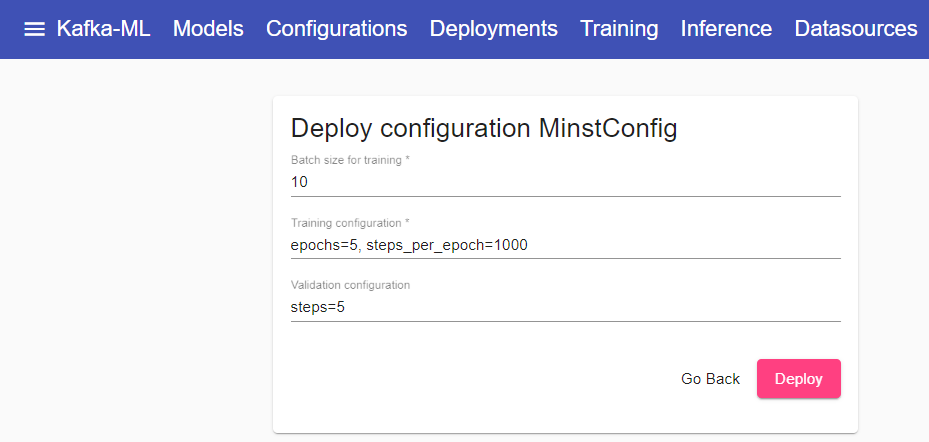
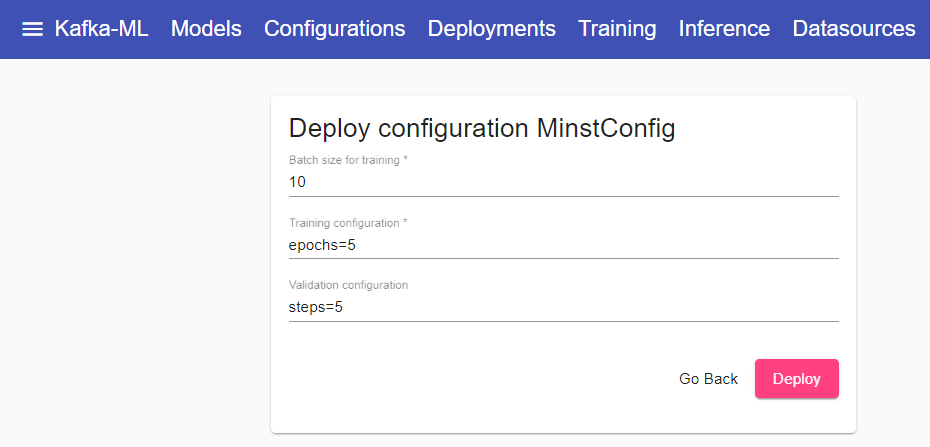
Automation of data types and reshapes for training

diff --git a/frontend/src/app/deployment-view/deployment-view.component.html b/frontend/src/app/deployment-view/deployment-view.component.html
@@ -13,7 +13,7 @@
 
       <mat-form-field class="full-width">
       <mat-label>Training configuration</mat-label>
-        <input matInput required placeholder="epochs=5, steps_per_epoch=1000" pattern="^[A-Za-z0-9-_]*[ ]*=[ ]*[A-Za-z0-9-_]*[ ]*(,[ ]*[A-Za-z0-9-_]*[ ]*=[ ]*[A-Za-z0-9-_]*[ ]*)*$" name="kwargs_fit" [ngModel]="deployment.kwargs_fit">
+        <input matInput required placeholder="epochs=5" pattern="^[A-Za-z0-9-_]*[ ]*=[ ]*[A-Za-z0-9-_]*[ ]*(,[ ]*[A-Za-z0-9-_]*[ ]*=[ ]*[A-Za-z0-9-_]*[ ]*)*$" name="kwargs_fit" [ngModel]="deployment.kwargs_fit">
       </mat-form-field>
 
       <mat-form-field class="full-width">

diff --git a/datasources/raw_sink.py b/datasources/raw_sink.py
@@ -1,4 +1,3 @@
-
 from .sink import KafkaMLSink
 
 class RawSink(KafkaMLSink):
@@ -30,7 +29,7 @@ class RawSink(KafkaMLSink):
     """
 
     def __init__(self, boostrap_servers, topic, deployment_id,
-        data_type, label_type, description='', data_reshape='', label_reshape='', 
+        data_type=None, label_type=None, description='', data_reshape=None, label_reshape=None, 
         validation_rate=0, control_topic='control', group_id='sink'):
         
         input_format='RAW'
@@ -47,3 +46,53 @@ class RawSink(KafkaMLSink):
             'data_reshape' : self.data_reshape,
             'label_reshape' : self.label_reshape,
         }
+        self._configured_format = self.data_type is not None
+
+    def send(self, data, label):
+        """Sends data and label to Apache Kafka"""
+    
+        if not self._configured_format:
+            self.data_reshape = self.__shape_to_string(data)
+            self.label_reshape = self.__shape_to_string(label)
+            self.data_type = self.__type_to_string(data)
+            self.label_type = self.__type_to_string(label)
+            self._configured_format = True
+            self.input_config = {
+                'data_type' : self.data_type,
+                'label_type': self.label_type,
+                'data_reshape' : self.data_reshape,
+                'label_reshape' : self.label_reshape,
+            }    
+        
+        super().send(data.tobytes(), label.tobytes())
+
+    def __shape_to_string(self, out_shape):
+        """Converts shape to string type.
+        Args:
+            out_shape (shape): Output shape to convert
+        Returns:
+            string: String shape of the input
+        """
+
+        if type(out_shape).__name__.startswith('tf.Tensor') or type(out_shape).__name__.startswith('ndarray'):
+            return str(out_shape.shape).replace('(','').replace(',','').replace(')','')
+        elif type(out_shape).__name__.startswith('list'):
+            return str(len(out_shape))
+        else:
+            return '1'
+
+    def __type_to_string(self, out_type):
+        """Converts DType to string type.
+        Args:
+            out_type (DType): Output type to convert
+        Returns:
+            string: String DType of the input
+        """
+        
+        while type(out_type).__name__.startswith('tf.Tensor') or type(out_type).__name__.startswith('ndarray'):
+           out_type = out_type[0]
+
+        if type(out_type).__name__.startswith('tf'):
+           out_type = out_type.numpy().item()
+
+        return type(out_type).__name__

diff --git a/model_inference/utils.py b/model_inference/utils.py
@@ -42,40 +42,46 @@ def load_model(model_path):
   return model
 
 def string_to_tensorflow_type(out_type):
-    """Converts a string with the same name to a Tensorflow type.
-    Acceptable types are half, float, double, int32, uint16, uint8, 
-                int16, int8, int64, string, bool.
-    Args:
-        out_type (str): Output type to convert
-    Returns:
-        Tensorflow DType: Tensorflow DType of the intput
-    """
-    if out_type == 'half':
-        return tf.half
-    elif out_type == 'float':
-        return tf.float
-    elif out_type == 'float32':
-        return tf.float32
-    elif out_type == 'double':
-        return tf.double
-    elif out_type == 'int64':
-        return tf.int64
-    elif out_type == 'int32':
-        return tf.int32
-    elif out_type == 'int16':
-        return tf.int16 
-    elif out_type == 'int8':
-        return tf.int8
-    elif out_type == 'uint16':
-        return tf.uint16 
-    elif out_type == 'uint8':
-        return tf.uint8 
-    elif out_type == 'string':
-        return tf.string
-    elif out_type == 'bool':
-        return tf.bool
-    else:
-        raise Exception('string_to_tensorflow_type: Unsupported type')
+  """Converts a string with the same name to a Tensorflow type.
+  Acceptable types are half, float, double, int32, uint16, uint8, 
+            int16, int8, int64, string, bool.
+  Args:
+      out_type (str): Output type to convert
+  Returns:
+    Tensorflow DType: Tensorflow DType of the intput
+  """
+  if out_type == 'half':
+    return tf.half
+  elif out_type == 'float16':
+    return tf.float16
+  elif out_type == 'float32':
+    return tf.float32
+  elif out_type == 'float64':
+    return tf.float64
+  elif out_type == 'double':
+    return tf.double
+  elif out_type == 'int64':
+    return tf.int64
+  elif out_type == 'int32':
+    return tf.int32
+  elif out_type == 'int16':
+    return tf.int16 
+  elif out_type == 'int8':
+    return tf.int8
+  elif out_type == 'uint64':
+    return tf.uint64
+  elif out_type == 'uint32':
+    return tf.uint32
+  elif out_type == 'uint16':
+    return tf.uint16 
+  elif out_type == 'uint8':
+    return tf.uint8
+  elif out_type == 'string':
+    return tf.string
+  elif out_type == 'bool':
+    return tf.bool
+  else:
+    raise Exception('string_to_tensorflow_type: Unsupported type')
 
 def string_to_numpy_type(out_type):
     """Converts a string with the same name to a Numpy type.

diff --git a/examples/VGG16_CIFAR10_RAW_format/vgg16_training_example.py b/examples/VGG16_CIFAR10_RAW_format/vgg16_training_example.py
@@ -8,18 +8,20 @@ import logging
 
 logging.basicConfig(level=logging.INFO)
 
-vgg16 = RawSink(boostrap_servers='localhost:9094', topic='automl', deployment_id=1, 
-        description='Cifar10 dataset', validation_rate=0.1, 
-        data_type='uint8', label_type='uint8', data_reshape='32 32 3')
+# vgg16 = RawSink(boostrap_servers='localhost:9094', topic='automl', deployment_id=1,
+#         description='Cifar10 dataset', validation_rate=0.1,
+#         data_type='uint8', label_type='uint8', data_reshape='32 32 3')
 
-(x_train, y_train ), ( x_test, y_test ) = tf.keras.datasets.cifar10.load_data()
+vgg16 = RawSink(boostrap_servers='localhost:9094', topic='automl', deployment_id=1,
+        description='Cifar10 dataset', validation_rate=0.1)
 
+(x_train, y_train), (x_test, y_test) = tf.keras.datasets.cifar10.load_data()
 print("train: ", (x_train.shape, y_train.shape))
 
 for (x, y) in zip(x_train, y_train):
-  vgg16.send(data=x.tobytes(), label=y.tobytes())
+  vgg16.send(data=x, label=y)
 
 for (x, y) in zip(x_test, y_test):
-  vgg16.send(data=x.tobytes(), label=y.tobytes())
+  vgg16.send(data=x, label=y)
 
 vgg16.close()

diff --git a/examples/MINST_RAW_format/mnist_dataset_training_example.py b/examples/MINST_RAW_format/mnist_dataset_training_example.py
@@ -8,17 +8,20 @@ import logging
 
 logging.basicConfig(level=logging.INFO)
 
-mnist = RawSink(boostrap_servers='127.0.0.1:9094', topic='automl', deployment_id=1, 
-        description='Mnist dataset', validation_rate=0.1, 
-        data_type='uint8', label_type='uint8', data_reshape='28 28')
+# mnist = RawSink(boostrap_servers='127.0.0.1:9094', topic='automl', deployment_id=1,
+#         description='Mnist dataset', validation_rate=0.1,
+#         data_type='uint8', label_type='uint8', data_reshape='28 28')
+
+mnist = RawSink(boostrap_servers='127.0.0.1:9094', topic='automl', deployment_id=1,
+        description='Mnist dataset', validation_rate=0.1)
 
 (x_train, y_train), (x_test, y_test) = tf.keras.datasets.mnist.load_data()
 print("train: ", (x_train.shape, y_train.shape))
 
 for (x, y) in zip(x_train, y_train):
-  mnist.send(data=x.tobytes(), label=y.tobytes())
+  mnist.send(data=x, label=y)
 
 for (x, y) in zip(x_test, y_test):
-  mnist.send(data=x.tobytes(), label=y.tobytes())
+  mnist.send(data=x, label=y)
 
 mnist.close()

diff --git a/model_training/utils.py b/model_training/utils.py
@@ -37,13 +37,14 @@ def string_to_tensorflow_type(out_type):
   Returns:
     Tensorflow DType: Tensorflow DType of the intput
   """
-
   if out_type == 'half':
     return tf.half
-  elif out_type == 'float':
-    return tf.float
+  elif out_type == 'float16':
+    return tf.float16
   elif out_type == 'float32':
     return tf.float32
+  elif out_type == 'float64':
+    return tf.float64
   elif out_type == 'double':
     return tf.double
   elif out_type == 'int64':
@@ -54,10 +55,14 @@ def string_to_tensorflow_type(out_type):
     return tf.int16 
   elif out_type == 'int8':
     return tf.int8
+  elif out_type == 'uint64':
+    return tf.uint64
+  elif out_type == 'uint32':
+    return tf.uint32
   elif out_type == 'uint16':
     return tf.uint16 
   elif out_type == 'uint8':
-    return tf.uint8 
+    return tf.uint8
   elif out_type == 'string':
     return tf.string
   elif out_type == 'bool':

diff --git a/model_training/distributed_training.py b/model_training/distributed_training.py
@@ -200,7 +200,7 @@ if __name__ == "__main__":
                         model.compile(optimizer='adam', loss=weights, metrics=['accuracy'], loss_weights=learning_rates)
                         """Compiles the global model"""
 
-                        model_trained = model.fit(train_dataset, **kwargs_fit)
+                        model_trained = model.fit(train_dataset, steps_per_epoch=split, **kwargs_fit)
                         """Trains the model"""
 
                         logging.info("Model trained history: %s", str(model_trained.history))

diff --git a/model_training/training.py b/model_training/training.py
@@ -160,7 +160,7 @@ if __name__ == '__main__':
             
             logging.info("Splitting done, training is going to start.")
 
-            model_trained = model.fit(train_dataset, **kwargs_fit)
+            model_trained = model.fit(train_dataset, steps_per_epoch=split, **kwargs_fit)
             """Trains the model"""
 
             end = time.time()

diff --git a/README.md b/README.md
@@ -39,7 +39,8 @@ If you wish to reuse Kafka-ML, please properly cite the above mentioned paper. B
 - [License](#license)
 
 ## Changelog
-- [29/4/2021] Integration of distributed models.
+- [29/04/2021] Integration of distributed models.
+- [05/11/2021] Automation of data types and reshapes for the training module.
 
 ## Usage
 To follow this tutorial, please deploy Kafka-ML as indicated below in [Installation and development](#Installation-and-development).
@@ -198,12 +199,14 @@ python examples/MINST_RAW_format/mnist_dataset_inference_example.py
     docker push localhost:5000/backend 
     ```
 
-3. Build the model_training component and push the image into the local register:
+3. Build the model_training components and push the images into the local register:
     ```
     cd model_training
     docker build --tag localhost:5000/model_training .
     docker push localhost:5000/model_training 
-    ```
+    docker build -f Dockerfile_distributed --tag localhost:5000/distributed_model_training .
+    docker push localhost:5000/distributed_model_training 
+	```
 
 4. Build the kafka_control_logger component and push the image into the local register:
     ```
